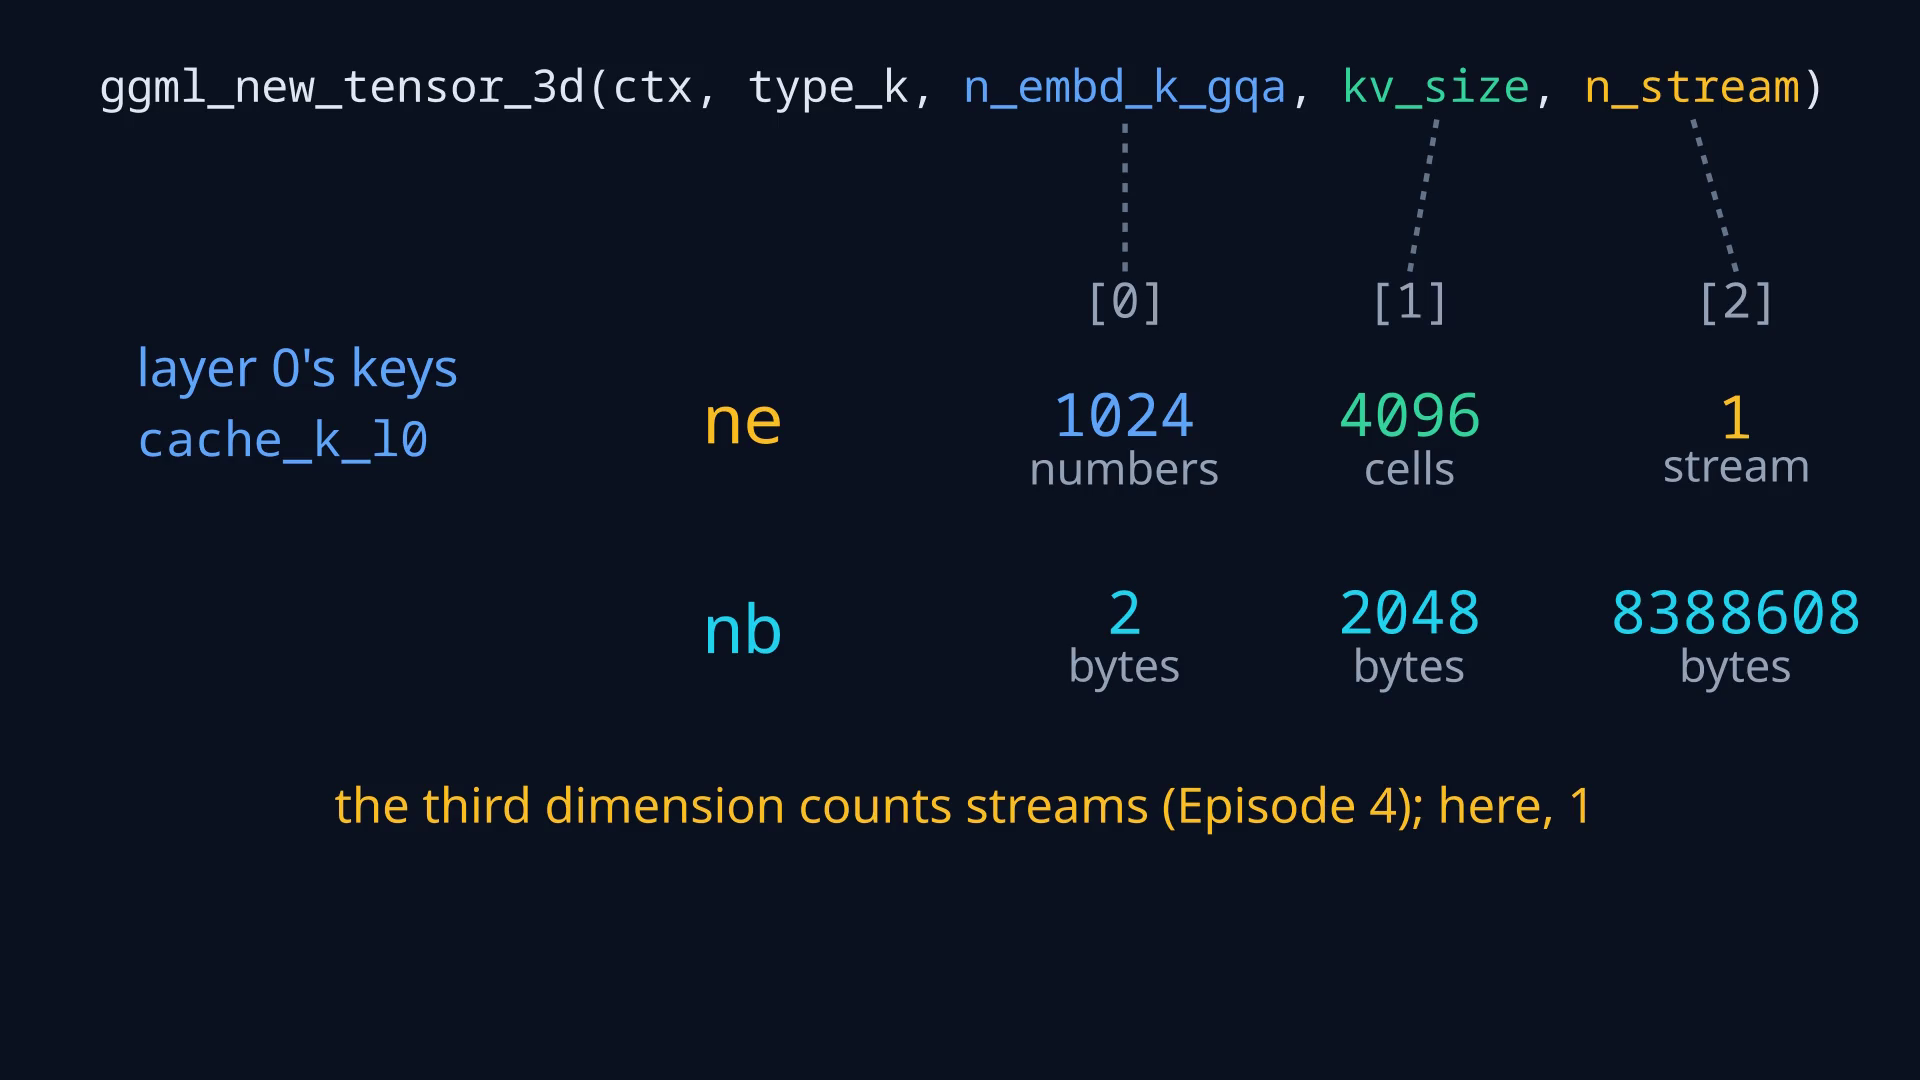
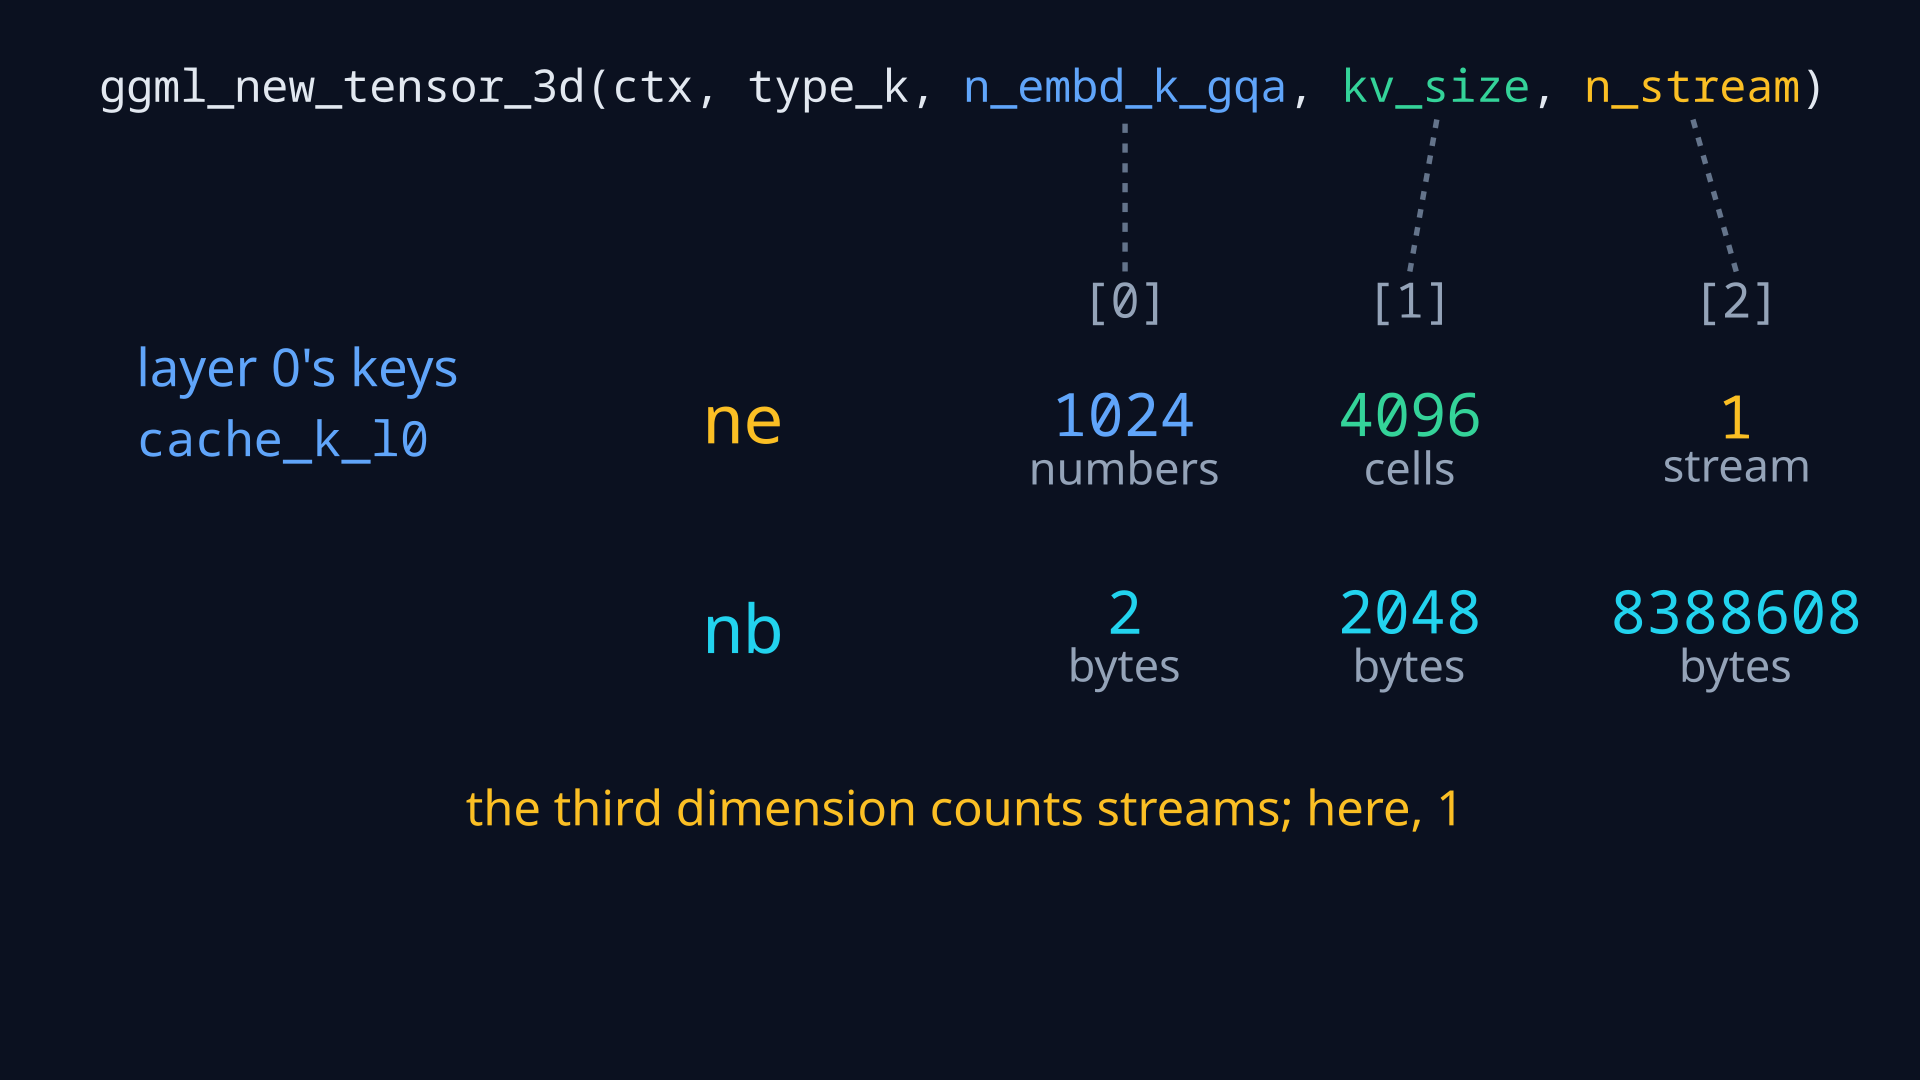
Make KV cache memory article stand alone

diff --git a/_posts/2026-10-05-llama-cpp-kv-cache-memory.md b/_posts/2026-10-05-llama-cpp-kv-cache-memory.md
@@ -9,7 +9,7 @@ description: "A look inside a real Qwen3-0.6B KV-cache dump: 28 layers, 56 tenso
 published: true
 ---
 
-I wanted to see what llama.cpp's KV cache actually looks like in memory, so I dumped the cached keys and values for a short prompt in **Qwen3-0.6B**. This is the small, 28-layer model from the first episode of my KV-cache video series. I used an RTX 4090, an F16 cache, and a context capacity of 4,096 tokens.
+I wanted to see what llama.cpp's KV cache actually looks like in memory, so I dumped the cached keys and values for a short prompt in **Qwen3-0.6B**, a small model with 28 layers. I used an RTX 4090, an F16 cache, and a context capacity of 4,096 tokens.
 
 The useful picture is fairly simple: every layer has its own K and V tensors, every occupied row holds one token's numbers, and streams add another dimension. Here is that picture, followed down to an actual pair of bytes in the dump.
 
@@ -48,7 +48,7 @@ ggml_new_tensor_3d(ctx, type_v,
 ```
 
 <details class="kv-memory-detail">
-<summary>The constructor and per-layer structure from the video</summary>
+<summary>The constructor and per-layer structure</summary>
 <figure class="kv-memory-figure">
 <a href="/images/kv-cache-memory/tensor-constructor.png"><img src="/images/kv-cache-memory/tensor-constructor.png" alt="The llama_kv_cache constructor loops over layers and creates one three-dimensional K tensor and one V tensor for each included layer." loading="lazy" /></a>
 <figcaption>The layer loop and the two tensor allocations.</figcaption>
@@ -211,7 +211,7 @@ With a **non-unified cache**, `n_stream` is the maximum number of sequences. Eac
 
 <figure class="kv-memory-figure">
 <a href="/images/kv-cache-memory/stream-slabs.png"><img src="/images/kv-cache-memory/stream-slabs.png" alt="A layer's K tensor contains one two-dimensional slab per stream. ggml_view_2d selects a slab at offset s times nb[2] without copying it." loading="lazy" /></a>
-<figcaption>The stream dimension, illustrated in episode four. Stream <code>s</code> starts at <code>s × nb[2]</code>.</figcaption>
+<figcaption>Each stream occupies one slab. Stream <code>s</code> starts at <code>s × nb[2]</code>.</figcaption>
 </figure>
 
 The source expresses the choice directly:
@@ -228,7 +228,7 @@ ggml_view_2d(ctx, k, n_embd_k_gqa, kv_size,
 ```
 
 <details class="kv-memory-detail">
-<summary>The stream-selection code from episode four</summary>
+<summary>The stream-selection code</summary>
 <figure class="kv-memory-figure">
 <a href="/images/kv-cache-memory/stream-choice.png"><img src="/images/kv-cache-memory/stream-choice.png" alt="The constructor selects one stream for unified mode or n_seq_max streams otherwise." loading="lazy" /></a>
 <figcaption>With only one allowed sequence, both choices give one stream. The dump above used that single-sequence case.</figcaption>
@@ -253,4 +253,4 @@ For me, the cache became much easier to picture once I could connect the pieces:
 
 ### Source
 
-The experiment and extracted diagrams use llama.cpp [99b95488c](https://github.com/ggml-org/llama.cpp/tree/99b95488cac0f00ce3f05af113a8c1e287753f87) and [Qwen3-0.6B](https://huggingface.co/Qwen/Qwen3-0.6B). The main code is in [llama-kv-cache.cpp](https://github.com/ggml-org/llama.cpp/blob/99b95488cac0f00ce3f05af113a8c1e287753f87/src/llama-kv-cache.cpp), including tensor construction and state serialization. The memory and dump diagrams are from episode one; the stream comparison is from episode four.
+The experiment and diagrams use llama.cpp [99b95488c](https://github.com/ggml-org/llama.cpp/tree/99b95488cac0f00ce3f05af113a8c1e287753f87) and [Qwen3-0.6B](https://huggingface.co/Qwen/Qwen3-0.6B). The main code is in [llama-kv-cache.cpp](https://github.com/ggml-org/llama.cpp/blob/99b95488cac0f00ce3f05af113a8c1e287753f87/src/llama-kv-cache.cpp), including tensor construction and state serialization.
